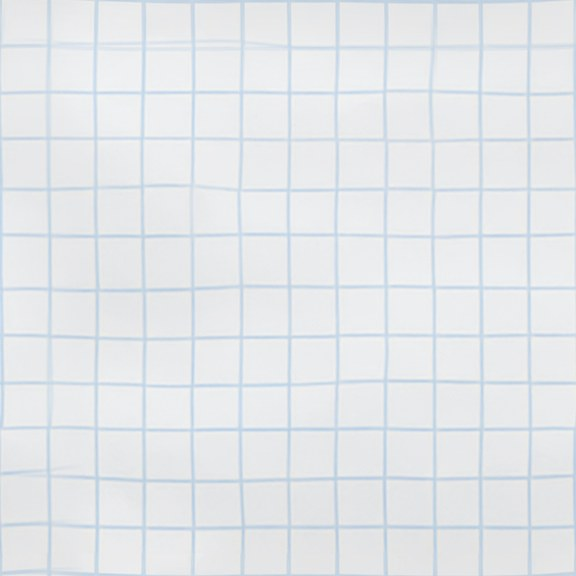
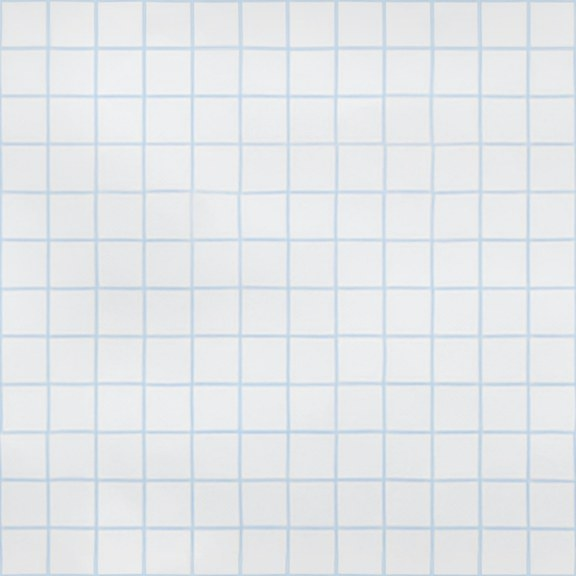
Straighten the grid paper so its squares are even

diff --git a/tools/texture-pipeline/make_grid_tile.py b/tools/texture-pipeline/make_grid_tile.py
@@ -1,0 +1,105 @@
+"""Cut a seamless tile of gridded paper from a photo, straightening the grid.
+
+usage: make_grid_tile.py SOURCE OUTPUT X0 Y0 CELL_X CELL_Y CELLS EXTRA CELL_OUT
+X0, Y0    where one grid line crossing is in the photo
+CELL_X/Y  roughly how far apart the lines are in the photo, across and down (they differ a little because the sheet is not flat)
+CELLS     squares across and down in the tile
+EXTRA     further squares cut past the tile to blend its edges with
+CELL_OUT  output pixels per square
+A photographed sheet is crumpled, so cut straight from it the lines wander. Each line is located along its length in the strips between the
+perpendicular lines, the crossings are worked out from those, and every square of the sheet is warped onto an even square. The paper's
+shading, creases and grain are kept. Because the grid is then exactly periodic, the first EXTRA squares of the tile can be crossfaded into the
+squares just past its far edge without doubling any line, so the tile wraps on both axes.
+"""
+import sys
+from PIL import Image
+
+Image.MAX_IMAGE_PIXELS = None
+
+source_path, output_path = sys.argv[1], sys.argv[2]
+x0, y0 = int(sys.argv[3]), int(sys.argv[4])
+cell_x, cell_y = float(sys.argv[5]), float(sys.argv[6])
+cells, extra, cell_out = int(sys.argv[7]), int(sys.argv[8]), int(sys.argv[9])
+lattice = cells + extra  # squares across and down in the straightened sheet; it has lattice + 1 lines each way
+
+STRIP_SHARE = 0.3  # a strip is this share of a cell wide
+SEARCH_SHARE = 0.3  # a line is looked for this share of a cell either side of where the line before it says it should be
+
+source = Image.open(source_path).convert("L")
+
+
+def dark_dip(profile, expected, half_window):
+    """Centre of the darkest dip within half_window of expected, once slow shading is taken out; sub-pixel from the dip's depth."""
+    average_half = int(max(cell_x, cell_y) * 0.35)
+    low, high = max(0, round(expected - half_window)), min(len(profile) - 1, round(expected + half_window))
+    depths = {}
+    for index in range(low, high + 1):
+        around = profile[max(0, index - average_half):index + average_half + 1]
+        depths[index] = sum(around) / len(around) - profile[index]
+    centre = max(depths, key=depths.get)
+    weights = {index: depths[index] for index in range(max(low, centre - 6), min(high, centre + 6) + 1) if depths[index] > 0}
+    return sum(index * weight for index, weight in weights.items()) / sum(weights.values())
+
+
+def line_positions(along_x, line_count, segment_count, cell_along, cell_across, start_across, start_along):
+    """position[line][segment]: where each line crosses the middle of each segment, following each line from the one before it."""
+    positions = [[] for _ in range(line_count)]
+    for segment in range(-1, segment_count + 1):  # one strip beyond each end, so every line has a strip on both sides
+        centre = start_along + (segment + 0.5) * cell_along
+        half = cell_along * STRIP_SHARE / 2
+        expected = start_across
+        for line in range(line_count):
+            if line > 0:
+                expected = positions[line - 1][-1] + cell_across
+            span = int(cell_across * (1 + SEARCH_SHARE)) + 1
+            box = (round(centre - half), round(expected - span), round(centre + half), round(expected + span)) if along_x else (round(expected - span), round(centre - half), round(expected + span), round(centre + half))
+            crop = source.crop(box)
+            profile = list((crop.resize((1, crop.height), Image.BOX) if along_x else crop.resize((crop.width, 1), Image.BOX)).tobytes())
+            found = dark_dip(profile, span, cell_across * SEARCH_SHARE)
+            positions[line].append((box[1] if along_x else box[0]) + found)
+            expected = positions[line][-1]
+    return positions
+
+
+rows = line_positions(True, lattice + 1, lattice, cell_x, cell_y, y0, x0)  # horizontal lines, found in strips between the vertical ones
+columns = line_positions(False, lattice + 1, lattice, cell_y, cell_x, x0, y0)  # vertical lines, found in strips between the horizontal ones
+
+# Strip -1 is first in each list, so a line's crossing with vertical line i sits between its strips i - 1 and i
+crossings = [[None] * (lattice + 1) for _ in range(lattice + 1)]  # crossings[row][column] = (x, y)
+for row in range(lattice + 1):
+    for column in range(lattice + 1):
+        y = (rows[row][column] + rows[row][column + 1]) / 2
+        x = (columns[column][row] + columns[column][row + 1]) / 2
+        crossings[row][column] = (x, y)
+
+margin = 8
+all_x = [point[0] for line in crossings for point in line]
+all_y = [point[1] for line in crossings for point in line]
+left, top = int(min(all_x)) - margin, int(min(all_y)) - margin
+region = Image.open(source_path).convert("RGB").crop((left, top, int(max(all_x)) + margin + 1, int(max(all_y)) + margin + 1))
+
+mesh = []
+for row in range(lattice):
+    for column in range(lattice):
+        north_west, north_east = crossings[row][column], crossings[row][column + 1]
+        south_west, south_east = crossings[row + 1][column], crossings[row + 1][column + 1]
+        quad = tuple(value for point in (north_west, south_west, south_east, north_east) for value in (point[0] - left, point[1] - top))
+        mesh.append(((column * cell_out, row * cell_out, (column + 1) * cell_out, (row + 1) * cell_out), quad))
+straightened = region.transform((lattice * cell_out, lattice * cell_out), Image.MESH, mesh, Image.BICUBIC)
+
+
+def ramp(length, vertical):
+    mask = Image.new("L", (1, length) if vertical else (length, 1))
+    mask.putdata([round(255 * i / (length - 1)) for i in range(length)])
+    return mask
+
+
+size, overlap = cells * cell_out, extra * cell_out
+across = straightened.crop((0, 0, size, size + overlap))
+following = straightened.crop((size, 0, size + overlap, size + overlap))
+across.paste(Image.composite(across.crop((0, 0, overlap, size + overlap)), following, ramp(overlap, False).resize((overlap, size + overlap))), (0, 0))
+tile = across.crop((0, 0, size, size))
+following = across.crop((0, size, size, size + overlap))
+tile.paste(Image.composite(tile.crop((0, 0, size, overlap)), following, ramp(overlap, True).resize((size, overlap))), (0, 0))
+tile.save(output_path, quality=88)
+print(output_path, tile.size)

diff --git a/tools/texture-pipeline/grid_regularity.py b/tools/texture-pipeline/grid_regularity.py
@@ -1,0 +1,46 @@
+"""Print how far the grid lines of a gridded paper tile stray from even spacing, as a fraction of one cell.
+
+usage: grid_regularity.py TILE CELLS
+CELLS  squares across and down in the tile
+Each line is located in every strip between the lines it crosses (so the perpendicular lines do not get in the way), and its distance from where an
+evenly spaced grid would put it is measured, after taking out any shift of the whole grid. The largest distance over all lines and strips is printed.
+A photographed sheet of paper that is not flat scores several hundredths of a cell; a straightened grid scores a few thousandths.
+"""
+import sys
+from PIL import Image, ImageChops
+
+tile_path, cells = sys.argv[1], int(sys.argv[2])
+gray = Image.open(tile_path).convert("L")
+width, height = gray.size
+cell_width, cell_height = width / cells, height / cells
+
+
+def dip_position(profile, expected, half_window):
+    """Position of the darkest point of the profile within half_window of expected, refined by the dark weight around it."""
+    low = max(1, round(expected - half_window))
+    high = min(len(profile) - 2, round(expected + half_window))
+    smoothed = {i: (profile[i - 1] + profile[i] + profile[i + 1]) / 3 for i in range(low, high + 1)}
+    center = min(smoothed, key=smoothed.get)
+    ceiling = max(smoothed.values())
+    weights = {i: ceiling - smoothed[i] for i in range(max(low, center - 3), min(high, center + 3) + 1)}
+    return sum(i * weight for i, weight in weights.items()) / sum(weights.values())
+
+
+def worst_deviation(image, count, cell, along_rows):
+    """Lines run across the image; find each in strips midway between the perpendicular lines."""
+    shifted = ImageChops.offset(image, 0, round(cell / 2)) if along_rows else ImageChops.offset(image, round(cell / 2), 0)
+    strip_count = cells
+    errors = []
+    for strip in range(strip_count):
+        centre = (strip + 0.5) * (width / strip_count if along_rows else height / strip_count)
+        half = (width if along_rows else height) / strip_count / 4
+        box = (round(centre - half), 0, round(centre + half), shifted.height) if along_rows else (0, round(centre - half), shifted.width, round(centre + half))
+        crop = shifted.crop(box)
+        profile = list((crop.resize((1, crop.height), Image.BOX) if along_rows else crop.resize((crop.width, 1), Image.BOX)).tobytes())
+        for line in range(count):
+            errors.append((dip_position(profile, (line + 0.5) * cell, cell / 3) - (line + 0.5) * cell) / cell)
+    shift = sum(errors) / len(errors)
+    return max(abs(error - shift) for error in errors)
+
+
+print(max(worst_deviation(gray, cells, cell_height, True), worst_deviation(gray, cells, cell_width, False)))

diff --git a/CREDITS.md b/CREDITS.md
@@ -23,7 +23,7 @@ Every texture in `assets/` is processed from a photograph on Unsplash. Unsplash 
 | `paper-tile.jpg` | `paper_olga-thelavart-vS3idIiYxX0-unsplash.jpg` | olga-thelavart | `make_tile.py 0.3 512 80` |
 | `cardboard-tile.jpg` | not in the repository | kiwihug | `make_tile.py 0.2 512 60` |
 | `lined-paper-tile.jpg` | `lined-paper_heather-green-hKfKmfvPY44-unsplash.jpg` | heather-green | `make_ruled_tile.py ... 1000 1563 2618 2618 300 648 648`, twelve rules from one rule to the rule twelve below it |
-| `grid-paper-tile.jpg` | not in the repository | juliette-jardin | `make_ruled_tile.py ... 2044 965 1998 2055 300 576 576`, twelve squares across and down, from a flat patch of the crumpled sheet |
+| `grid-paper-tile.jpg` | not in the repository | juliette-jardin | `make_grid_tile.py ... 2044 965 166.5 171.25 12 2 48`, twelve squares across and down, with the crumpled sheet's grid straightened |
 | `blackboard-tile.jpg` | not in the repository | noita-digital | `make_tile.py 0.35 512 70` |
 | `chalkboard-tile.jpg` | not in the repository | aleyna-catak | `make_tile.py 0.45 512 70`, from the center so the ledge and chalk at the bottom of the photo are left out |
 | `paper-bag-tile.jpg` | not in the repository | heather-green | `make_tile.py 0.3 512 60`, from the center so the photo's fold shadow is left out |
@@ -47,3 +47,5 @@ The scripts are in `tools/texture-pipeline/` and the source photos that are in t
 `examples/tree.jpg` is the photo on the frames example page, by mehrab-sium (Unsplash), resized.
 
 `showcase/images/ribbon.jpg` is the photo by boliviainteligente (Unsplash), resized. `showcase/images/tree.jpg` is the same tree photo as `examples/tree.jpg`.
+
+`examples/snow-leopard.jpg` and `showcase/images/snow-leopard.jpg` are the landscape photo on the frames example and Materials pages. [Snow leopard in snow 2](https://commons.wikimedia.org/wiki/File:Snow_leopard_in_snow_2.jpg) by [Nicolas Goulet](https://www.flickr.com/photos/nicolasgoulet/5361403415/) is licensed under [CC BY 2.0](https://creativecommons.org/licenses/by/2.0/) (modified). The photo was edited and resized.
